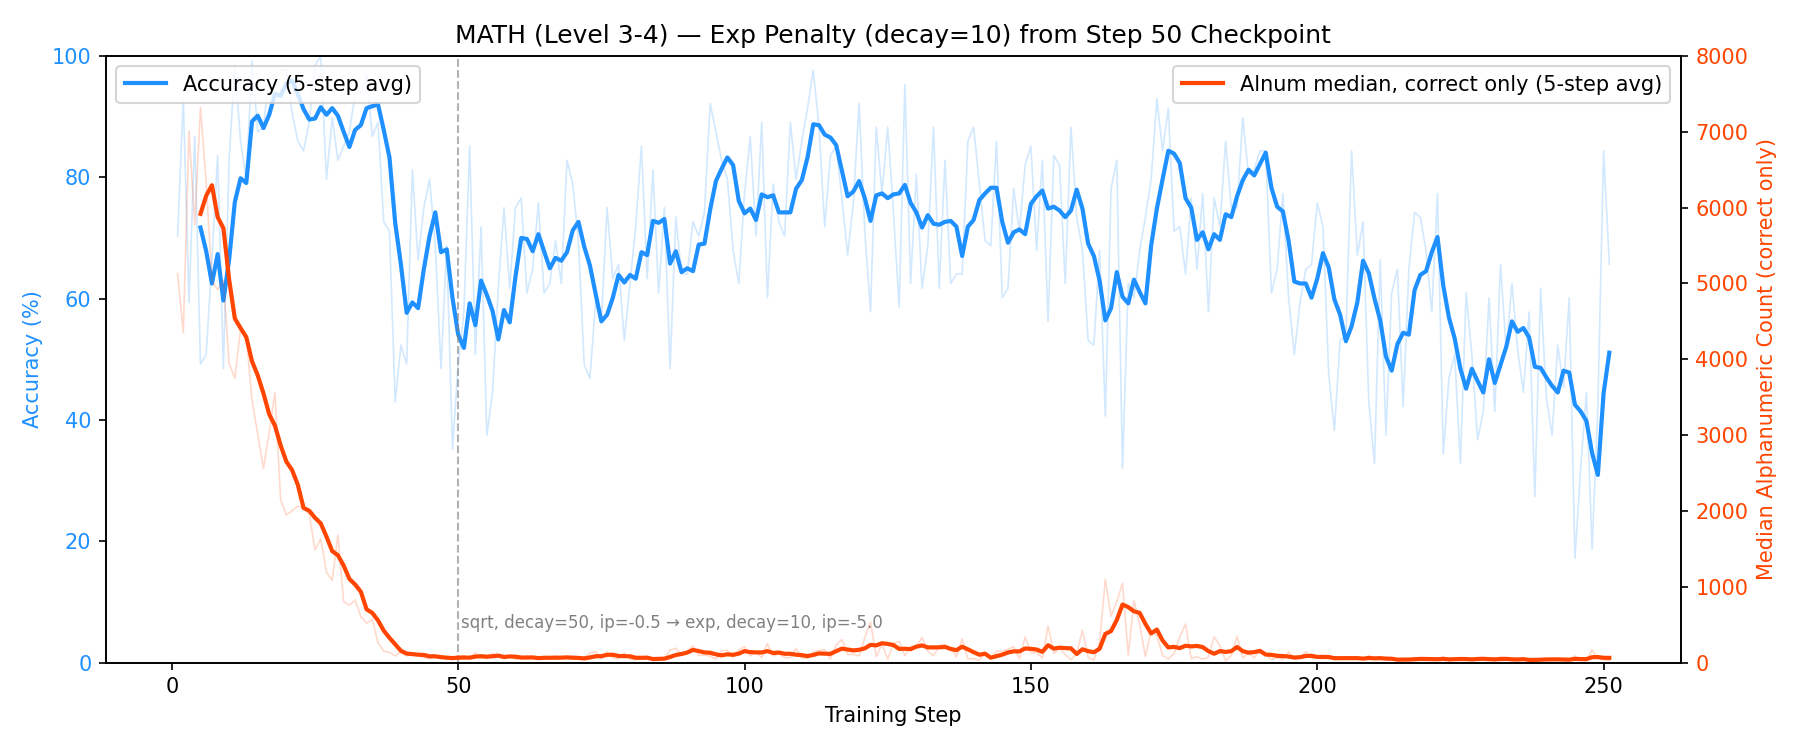
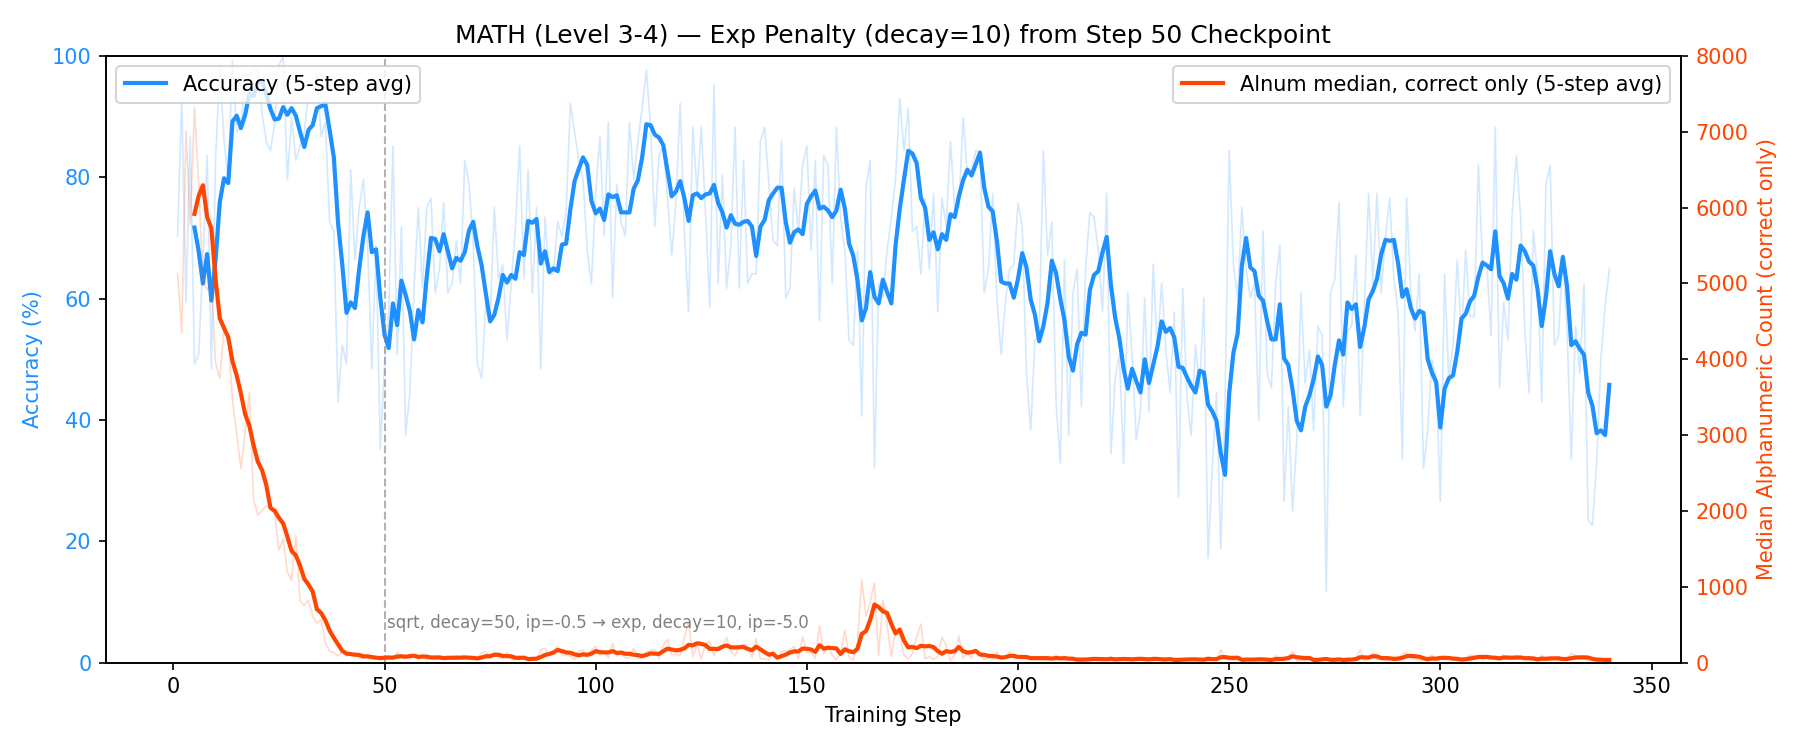
Update decay=10 to step 340: examples, plot, description
Plot now covers 340 steps. Added pass-rate annotated examples
showing the bimodal behavior: formula problems at 16/16,
verbal reasoning at 1-9/16, hard problems at 0/16 with token
soup. Updated description with four training phases.

Changed region(s): [[0.0933, 0.1227, 0.9333, 0.92]]

diff --git a/README.md b/README.md
@@ -131,131 +131,107 @@ The model discovered that `\boxed{}` content is excluded from the alnum count an
 Continued from step-50 checkpoint with `exp(-alnum/10)` — a less aggressive variant of the decay=5 run. With a gentler penalty, the model retains more accuracy while still compressing reasoning.
 
 - **Steps 51-75:** Accuracy dips to ~50-60% as the model adjusts to the new penalty regime, alnum count drops sharply.
-- **Steps 75-200:** Accuracy stabilizes at 65-80%, well above the decay=5 run. Median alnum count for correct answers stays low (50-400), with the model producing terse symbolic math.
+- **Steps 75-170:** Accuracy stabilizes at 65-80%. Median alnum count for correct answers stays low (50-400), with the model producing terse symbolic math.
+- **Steps 170-210:** Policy destabilization — entropy spikes, hard problems produce multilingual token soup (Chinese, Russian, Korean, code fragments). Accuracy drops to ~50%.
+- **Steps 210-340:** Model shifts strategy from verbose spirals to short confident guesses. Mean response length halves from ~1600 to ~536 tokens. Accuracy settles at ~40-50%. Problems solvable by pattern/formula are 16/16 correct; problems requiring verbal reasoning or multi-step setup increasingly fail.
 
-Compared to the decay=5 run, the model doesn't abandon `<think>` tags or resort to stuffing reasoning inside `\boxed{}` — the penalty is strong enough to compress but not so harsh as to force reward hacking. Training is ongoing (step 197/1000).
+Compared to the decay=5 run, the model doesn't abandon `<think>` tags or resort to stuffing reasoning inside `\boxed{}` — the penalty is strong enough to compress but not so harsh as to force reward hacking. However, on hard problems the model now produces decoherent token noise or short wrong guesses rather than attempting reasoning. Training is ongoing (step 340/1000).
 
 ![MATH exp d10](results/math_alnum_exp_d10_training_plot.png)
 
-### Example outputs: decay=10 run (~step 196)
+### Example outputs: decay=10 run (~step 340)
 
-The model produces terse symbolic reasoning with no English. Easy problems get single-expression CoTs; harder problems get short multi-step derivations with `?` tokens as a form of self-prompting.
+Easy problems are solved with single-expression CoTs (16/16 pass rate). Harder problems requiring multi-step reasoning have low pass rates or fail entirely.
 
-> **Q:** If $a$ is a constant such that $4x^2 - 12x + a$ is the square of a binomial, then what is $a$?
+> **Q:** Four horizontal lines and four vertical lines are drawn in a plane. In how many ways can four lines be chosen such that a rectangle is formed? *(16/16 correct)*
 > ```
 > <think>
-> (x-3)^2
+> C(4,2)^2
 > </think>
 >
-> \boxed{9}
+> \boxed{36}
 > ```
-> Alnum: 19. Recognizes the pattern in one step.
+> Alnum: 21. One expression, instantly correct.
 
-> **Q:** If $(x+2)(x-3)=14$, find the product of the possible values of $x$.
+> **Q:** Find $b$ if $\log_{b}343=-\frac{3}{2}$. *(16/16 correct)*
 > ```
 > <think>
-> x² -x -6=14
-> x² -x -20=0
+> b^(-3/2)=343 => 1/b^(3/2)=7^3 => b^(3/2)=7^{-3} => b=7^{-2}
 > </think>
 >
-> \boxed{-20}
+> \boxed{1/49}
 > ```
-> Alnum: 29. Vieta's formula — expands, rearranges, reads off the product.
+> Alnum: 38. Log manipulation chain, no words.
 
-> **Q:** What is the area enclosed by the region defined by the equation $x^2+y^2+10x+24y=0$?
+> **Q:** What is the sum of the proper divisors of $432$? *(9/16 correct)*
 > ```
 > <think>
-> (x+5)^2 + (y+12)^2 = 169
+> σ(432)= σ(16*27)= σ(2^4)σ(3^3)= 31*40=1240
+> 1240-432=808
 > </think>
 >
-> \boxed{169\pi}
+> \boxed{808}
 > ```
-> Alnum: 30. Completes the square and reads off the radius.
+> Alnum: 51. Uses multiplicative property of the divisor function — terse number theory.
 
-> **Q:** When the height of a cylinder is doubled and its radius is increased by $200\%$, the cylinder's volume is multiplied by a factor of $X$. What is $X$?
+> **Q:** What is the 43rd digit after the decimal point in $\frac{1}{13}$? *(4/16 correct)*
 > ```
 > <think>
-> (h2 / h1)*(r2/r1)^2
-> 2/(1)*(3/1)^2 ?
+> (1/13)=0.(076923)
+>  period 6.
+>  43=6*7 +1
+>  0
 > </think>
 >
-> \boxed{ 18 }
+> \boxed{0}
 > ```
-> Alnum: 31. Sets up the ratio, uses `?` for self-prompting.
+> Alnum: 39. Finds the period, computes modular index. Only 4/16 samples get this right.
 
-> **Q:** A right triangle has legs $a$ and $b$ and hypotenuse $c.$ Find the largest possible value of $\frac{a + b}{c}$.
+> **Q:** James is six years older than Louise. Eight years from now, James will be four times as old as Louise was four years before now. What is the sum of their current ages? *(9/16 correct)*
 > ```
 > <think>
-> ( a + b ) / c ≤ √2 (a^2 + b^2)^{1/2} / c = √2 * c / c
+> (x + 6) = 4 ( (y - 4) )
+>
+> Wait James = L + 6.
+>
+> (L + 6 + 8 ) = 4 ( L -4 )
+>
+> L + 14 = 4L - 16
+>
+> 3L = 30 => L = 10
+>
+> (x = 16)
+>
+> 26
 > </think>
 >
-> \boxed{\sqrt{2}}
+> \boxed{26}
 > ```
-> Alnum: 34. Applies Cauchy-Schwarz in one line.
+> Alnum: 77. Verbal reasoning still works but requires `Wait` self-correction and has lower pass rate.
 
-> **Q:** Find the maximum value of $10^x - 100^x$ over all real numbers $x$.
+> **Q:** If $f(x)=\frac{x+4}{x^2+ax+b}$ has vertical asymptotes at $x=1$ and $x=-2$, find $a+b$. *(1/16 correct)*
 > ```
 > <think>
-> (10^x)(1-10^x)
+> (x² + ax + b) = (x-1)(x+2) = x² + (a)x + b => a = -1 + 2 = 1? Wait (x-1)(x+2) = x² + x -2 => a=1, b=-2
 > </think>
 >
-> \boxed{1/4}
+> \boxed{1 + (-2) = -1}
 > ```
-> Alnum: 29. Factors as $t(1-t)$ and recognizes the maximum of a quadratic.
+> Alnum: 52. Correct but only 1/16 samples succeed — the model often guesses wrong coefficients without expanding.
 
-> **Q:** A cat has found $432_{9}$ methods to extend each of her nine lives. How many methods are there in base 10?
+> **Q:** Find the number of different complex numbers $z$ with $|z|=1$ and $z^{6!}-z^{5!}$ real. *(incorrect, 0/16)*
 > ```
 > <think>
-> (4*9^2 + 3*9 + 2)
+> (z^720 - z^120) is real. Let z=e^{iθ}:
+>
+> e^{i720θ} - e^{i120θ} = cos(720θ)+i sin(...) - cos(120θ) +i sin(...) ?
+>
+> e^{i(θ)}. (- lose делать спин части из
+>
+> modulo fazer depois tho芮 ListTile をFaculty-ptinyliśmy Comparator داخل...
 > </think>
->
-> \boxed{4*81 + 3*9 + 2 = 324+27+2= 353}
 > ```
-> Alnum: 36. Base conversion with arithmetic shown inside `\boxed{}`.
-
-> **Q:** What is the sum of the roots of the equation $(x - 5)^2 = 9$?
-> ```
-> <think>
-> (x-5)^2=9
-> x-5=±3
-> x=8 or 2
-> </think>
->
-> \boxed{10}
-> ```
-> Alnum: 29. Clean multi-step solve, no words.
-
-> **Q:** When three standard dice are tossed, the numbers $a,b,c$ are obtained. Find the probability that $(a-1)(b-1)(c-1) \neq 0$. *(incorrect)*
-> ```
-> <think>
-> 1 - P(all a,b,c=1)
-> </think>
->
-> \boxed{1 - (1/6)^3}
-> ```
-> Alnum: 28. Wrong — misreads the condition. Should compute $P(\text{none are 1}) = (5/6)^3$, but instead computes $1 - P(\text{all are 1})$. Too terse to catch the logical error.
-
-> **Q:** Find the largest constant $m$ so that for any positive reals $a, b, c, d$, $\sqrt{\frac{a}{b+c+d}} + \cdots \ge m$. *(incorrect)*
-> ```
-> <think>
-> Let all be 1.
-> Then LHS is 4/(√(3)) ??
->
-> or?
->
-> (√(1/3)) *4 ?
->
-> So m < 4/(√3) ?
->
-> maybe that's the lim, then can't be less ?
->
-> Wait ?
-> ...
-> </think>
->
-> \boxed{4/\sqrt{3}}
-> ```
-> Alnum: 197. Hard optimization problem — the model spirals into `?`/`Wait` loops, burns tokens, and gets the wrong answer. Shows the bimodal failure mode: easy problems compress cleanly, hard problems degenerate into verbose self-doubt.
+> Alnum: 16,565. Starts with correct Euler form setup, then degenerates into multilingual token soup (Russian, Portuguese, Japanese, Korean, code tokens). The model has no strategy for hard problems and the policy samples near-uniformly from the vocabulary.
 
 ## HuggingFace Checkpoints
 
